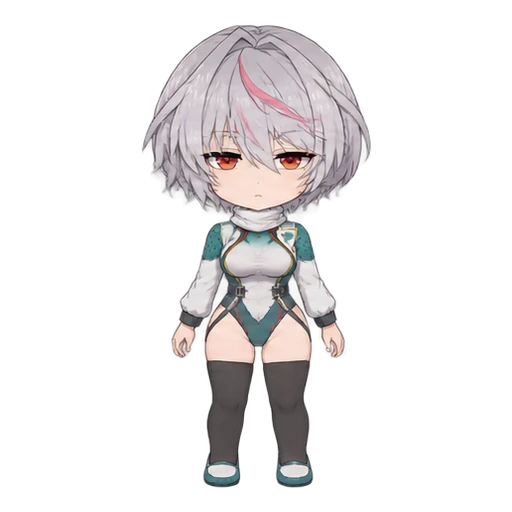
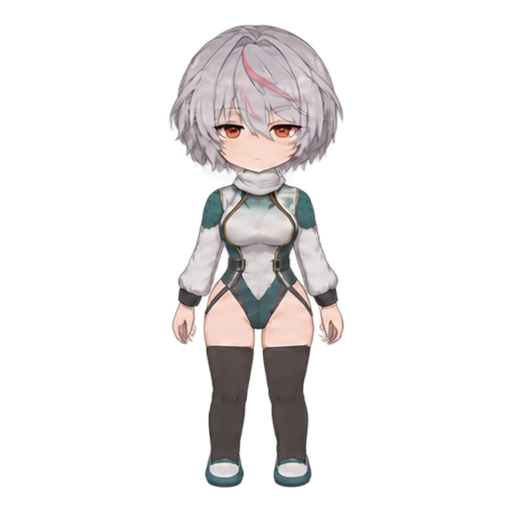
Expand Selsi's art set and establish character art requirements

Changed region(s): [[0.2812, 0.0312, 0.75, 0.8125], [0.5312, 0.7812, 0.625, 0.9688], [0.375, 0.8438, 0.5, 0.9688]]

diff --git a/fantasy-rpg/desktop/ui/characters/viewer.js b/fantasy-rpg/desktop/ui/characters/viewer.js
@@ -1,5 +1,5 @@
 'use strict';
-window.CharacterContentUI={open(body){const records=[...CharacterContent.records,...CharacterContent.previews];const node=(tag,text='')=>{const e=document.createElement(tag);e.textContent=text;return e;};body.append(node('p','제작자 외형 보기 · 본편의 만남·파티·저장 상태를 바꾸지 않습니다.'));const select=node('select');select.setAttribute('aria-label','미리 볼 캐릭터');for(const r of records){const option=node('option',r.name);option.value=r.id;select.append(option);}const info=node('p'),controls=node('div'),stage=node('div');stage.style.cssText='position:relative;max-width:100%;width:420px;margin:16px auto;background:#24332c';body.append(select,info,controls,stage);function show(f,pixel=false){stage.replaceChildren();stage.style.aspectRatio=f.w+'/'+f.h;const im=node('img');im.alt='선택한 캐릭터 외형';im.src=f.src;im.style.cssText='position:absolute;max-width:none;width:'+f.imageWidth/f.w*100+'%;height:'+f.imageHeight/f.h*100+'%;left:'+(-f.x/f.w*100)+'%;top:'+(-f.y/f.h*100)+'%;'+(pixel?'image-rendering:pixelated;':'');stage.style.overflow='hidden';stage.append(im);}function render(){const r=records.find(record=>record.id===select.value);if(!r)return;controls.replaceChildren();info.textContent=r.name+' · '+r.species+' · 선호 무기: '+(r.preferredWeapons.map(w=>({dagger:'단검류',magic:'마법',sword:'검',manaThread:'마력실'})[w]||w).join(', ')||'미정')+' · 나이: '+(r.age??'미정')+' · '+(r.heightCm??'?')+'cm / '+(r.weightKg??'?')+'kg';const button=(label,f,pixel)=>{const b=node('button',label);b.onclick=()=>show(f,pixel);controls.append(b);};for(const [k,f]of Object.entries(r.looks))button(({default:'기본 의상',street:'대체 의상',fallen:'앉은 장면',help:'대화 손짓',sleep:'잠옷',guard:'경계 자세',cast:'마력실 시전',hit:'피격 반응',flustered:'당황한 순간 · 컷신',alternate:'대체 의상 · 전신',alternateCast:'대체 의상 · 마력실 시전'})[k]||k,f);for(const [k,f]of Object.entries(r.portraits||{}))button('초상화 · '+k,f);for(const [k,f]of Object.entries(r.sd))button('SD · '+(({default:'기본',alternate:'대체 의상'})[k]||k),f);r.pixel?.frames.forEach((f,i)=>button((r.pixel.format==='illustrated-sd'?'전투 SD ':'도트 ')+(i+1),{src:r.pixel.src,x:f[0],y:f[1],w:f[2],h:f[3],imageWidth:r.pixel.imageWidth,imageHeight:r.pixel.imageHeight},true));if(r.combatSprite){
+window.CharacterContentUI={open(body){const records=[...CharacterContent.records,...CharacterContent.previews];const node=(tag,text='')=>{const e=document.createElement(tag);e.textContent=text;return e;};body.append(node('p','제작자 외형 보기 · 본편의 만남·파티·저장 상태를 바꾸지 않습니다.'));const select=node('select');select.setAttribute('aria-label','미리 볼 캐릭터');for(const r of records){const option=node('option',r.name);option.value=r.id;select.append(option);}const info=node('p'),controls=node('div'),stage=node('div');stage.style.cssText='position:relative;max-width:100%;width:420px;margin:16px auto;background:#24332c';body.append(select,info,controls,stage);function show(f,pixel=false){stage.replaceChildren();stage.style.aspectRatio=f.w+'/'+f.h;const im=node('img');im.alt='선택한 캐릭터 외형';im.src=f.src;im.style.cssText='position:absolute;max-width:none;width:'+f.imageWidth/f.w*100+'%;height:'+f.imageHeight/f.h*100+'%;left:'+(-f.x/f.w*100)+'%;top:'+(-f.y/f.h*100)+'%;'+(pixel?'image-rendering:pixelated;':'');stage.style.overflow='hidden';stage.append(im);}function render(){const r=records.find(record=>record.id===select.value);if(!r)return;controls.replaceChildren();info.textContent=r.name+' · '+r.species+' · 선호 무기: '+(r.preferredWeapons.map(w=>({dagger:'단검류',magic:'마법',sword:'검',manaThread:'마력실'})[w]||w).join(', ')||'미정')+' · 나이: '+(r.age??'미정')+' · '+(r.heightCm??'?')+'cm / '+(r.weightKg??'?')+'kg';const button=(label,f,pixel)=>{const b=node('button',label);b.onclick=()=>show(f,pixel);controls.append(b);};for(const [k,f]of Object.entries(r.looks))button(({default:'기본 의상',street:'대체 의상',fallen:'앉은 장면',help:'대화 손짓',sleep:'잠옷',guard:'경계 자세',rear:'후면 전신',ready:'준비 자세',sigh:'한숨 · 컷신',cast:'마력실 시전',hit:'피격 반응',flustered:'당황한 순간 · 컷신',alternate:'대체 의상 · 전신',alternateCast:'대체 의상 · 마력실 시전'})[k]||k,f);for(const [k,f]of Object.entries(r.portraits||{}))button('초상화 · '+k,f);for(const [k,f]of Object.entries(r.sd))button('SD · '+(({default:'기본',alternate:'대체 의상'})[k]||k),f);r.pixel?.frames.forEach((f,i)=>button((r.pixel.format==='illustrated-sd'?'전투 SD ':'도트 ')+(i+1),{src:r.pixel.src,x:f[0],y:f[1],w:f[2],h:f[3],imageWidth:r.pixel.imageWidth,imageHeight:r.pixel.imageHeight},true));if(r.combatSprite){
   const clips=['대기','이동','공격','방어','회피','피격'];
   r.combatSprite.frames.forEach((_,i)=>button('전투 · '+clips[Math.floor(i/2)]+' '+(i%2+1),CharacterContent.combatFrame(r.combatSprite,i),true));
 }show(r.looks.default);}select.onchange=render;render();}};

diff --git a/fantasy-rpg/desktop/ui/characters/content.js b/fantasy-rpg/desktop/ui/characters/content.js
@@ -47,9 +47,13 @@ const previews=[{
   preferredWeapons:[],
   looks:{
     default:fullImage('selsi-standing.webp',720,1080),
+    rear:fullImage('selsi-rear.webp',720,1080),
     help:fullImage('selsi-talk.webp',720,1080),
+    ready:fullImage('selsi-ready.webp',720,1080),
+    sigh:fullImage('selsi-sigh.webp',720,1080),
   },
   sd:{default:fullImage('selsi-sd.webp',512,512)},
+  combatSprite:combatAtlas('selsi',.96,.85),
 }];
 function get(id){return records.find(r=>r.id===id)||null;}
 function appearance(id,{look='default',pose='default'}={}){const r=get(id);return r?.looks[pose==='default'?look:pose]||r?.looks.default||null;}

diff --git a/AGENTS.md b/AGENTS.md
@@ -43,6 +43,6 @@
 # 신규 캐릭터 제작 묶음
 
 - 사용자가 새 캐릭터의 레퍼런스 이미지와 이름·설정·체격을 함께 제공하면 일러스트 제작 요청으로 본다. 레퍼런스의 의상 구성은 유지하고 외모를 게임 그림체로 가볍게 리터치한다. 자세는 바꿀 수 있다. 이미지 없이 설정만 논의하는 단계에서는 그림을 자동 제작하지 않는다.
-- 일러스트 제작에는 기본 전신·컷신·SD를 함께 준비한다. 본편 이벤트는 실제 등장 조건과 장소가 확정된 설정에 맞춰 연결한다.
+- 모든 캐릭터의 일러스트 제작에는 기본 전신·후면 전신·상호작용 일러스트·컷신·일반 SD·전투 SD를 함께 준비한다. 전투 SD는 공통 렌더러 형식으로 만들고 대기·이동·공격·방어·회피·피격을 검수한다. 전투 방식과 본편 이벤트는 확정된 설정에 맞춰 연결한다.
 - 요청 복장과 체형을 모든 그림에 일치시키고, SD는 표정 차이와 투명 배경을 확인한다. 이벤트는 실제 만남 조건·선택·시간·중단·저장·완료를 지원하고 컷신 표시 조건까지 연결한다.
 - 이름 등 미정 사항을 임의로 확정하지 않는다. 이름이 없어도 외형 묘사와 실제 용건을 통한 첫 만남을 구현할 수 있다. 설정이 정해지면 같은 캐릭터 기록에 이어 적용한다.

diff --git a/fantasy-rpg/WORLD_BIBLE.md b/fantasy-rpg/WORLD_BIBLE.md
@@ -241,7 +241,7 @@
 
 - 개구리 수인. 키 168cm, 몸무게 50kg.
 - 무감각하고 반응이 둔하며 귀찮음을 많이 느낀다. 외부 자극에도 무심한 표정과 느긋한 몸짓을 보인다.
-- 외형 레퍼런스처럼 은회색 짧은 층단발에 비스듬히 흐르는 앞머리와 가는 분홍색 포인트를 둔다. 청록·흰색 상의와 레퍼런스의 짙은 하의 재단, 옆 스트랩을 유지한다. 후드·망토·머리 고글·장갑은 제거한다. 다리 장비는 기존 장비가 시작하던 허벅지 높이의 장식 없는 스타킹으로 교체한다.
+- 외형 레퍼런스처럼 은회색 짧은 층단발에 비스듬히 흐르는 앞머리와 가는 분홍색 포인트를 둔다. 청록·흰색 상의와 레퍼런스의 짙은 하의 재단, 옆 스트랩을 유지한다. 하의는 엉덩이 곡선을 따라 밀착되는 핏으로 그린다. 후드·망토·머리 고글·장갑은 제거한다. 다리 장비는 기존 장비가 시작하던 허벅지 높이의 장식 없는 스타킹으로 교체한다.
 - 나이, 직업, 능력, 무기, 첫 만남과 태이와의 관계는 미정이다.
 
 ## 6. 정수 — 확정

diff --git a/fantasy-rpg/desktop/world/WORLD_BIBLE.md b/fantasy-rpg/desktop/world/WORLD_BIBLE.md
@@ -241,7 +241,7 @@
 
 - 개구리 수인. 키 168cm, 몸무게 50kg.
 - 무감각하고 반응이 둔하며 귀찮음을 많이 느낀다. 외부 자극에도 무심한 표정과 느긋한 몸짓을 보인다.
-- 외형 레퍼런스처럼 은회색 짧은 층단발에 비스듬히 흐르는 앞머리와 가는 분홍색 포인트를 둔다. 청록·흰색 상의와 레퍼런스의 짙은 하의 재단, 옆 스트랩을 유지한다. 후드·망토·머리 고글·장갑은 제거한다. 다리 장비는 기존 장비가 시작하던 허벅지 높이의 장식 없는 스타킹으로 교체한다.
+- 외형 레퍼런스처럼 은회색 짧은 층단발에 비스듬히 흐르는 앞머리와 가는 분홍색 포인트를 둔다. 청록·흰색 상의와 레퍼런스의 짙은 하의 재단, 옆 스트랩을 유지한다. 하의는 엉덩이 곡선을 따라 밀착되는 핏으로 그린다. 후드·망토·머리 고글·장갑은 제거한다. 다리 장비는 기존 장비가 시작하던 허벅지 높이의 장식 없는 스타킹으로 교체한다.
 - 나이, 직업, 능력, 무기, 첫 만남과 태이와의 관계는 미정이다.
 
 ## 6. 정수 — 확정

diff --git a/fantasy-rpg/desktop/README.md b/fantasy-rpg/desktop/README.md
@@ -391,3 +391,7 @@ ChatGPT에는 현장 인물별 전언·출처·불확실성과 반응 방향을 
 ### v0.42.19 · 셀시 외형 수정
 
 기본 전신·대화 포즈·SD의 앞머리, 하의 재단, 허벅지 길이 스타킹을 레퍼런스에 맞추고 장갑을 제거했다. Windows 설치 패치 기준은 v0.42.18이다.
+
+### v0.42.20 · 셀시 일러스트와 전투 SD
+
+캐릭터 외형 메뉴에 머리 비율을 조정한 전신·SD, 후면 전신, 대화·준비 자세, 한숨 컷신, 여섯 동작의 두 프레임씩을 담은 전투 SD를 연결했다. 전투 방식과 본편 등장 이벤트는 미정이다. Windows 설치 패치 기준은 v0.42.19다.
